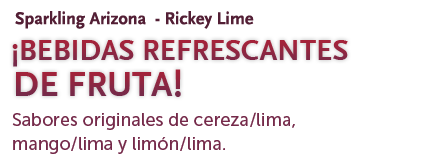
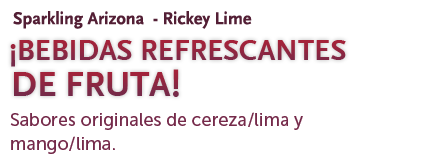
borrar producto: rickey lima/limon

diff --git a/js/slideshow.js b/js/slideshow.js
@@ -123,7 +123,7 @@ function animate_all_elements(id_next) {
 		
 	if (id_next=='sparkling') {
 	    
-	    	var contenedorCinco = $('li.show ul').children('li').append('<span class="sparkling_circles"></span><a href="/main/sparkling_lemonlime/" class="sparkling_lata3"></a><a href="/main/sparkling_mangolime/" class="sparkling_lata2"></a><a href="/main/sparkling_cherrylime" class="sparkling_lata1"></a><span class="sparkling_texto"></span>');
+	    	var contenedorCinco = $('li.show ul').children('li').append('<span class="sparkling_circles"></span><a href="/main/sparkling_mangolime/" class="sparkling_lata2"></a><a href="/main/sparkling_cherrylime" class="sparkling_lata1"></a><span class="sparkling_texto"></span>');
 	    	
 	    	$('.sparkling_texto').delay(800).animate({
 	    	opacity: 1,
@@ -140,10 +140,10 @@ function animate_all_elements(id_next) {
 	    	top: '+=20'
 	  		}, 200);
 	  		
-	  		$('.sparkling_lata3').delay(300).animate({
+	  		/*$('.sparkling_lata3').delay(300).animate({
 	    	opacity: 1, 
 	    	top: '+=20'
-	  		}, 200);
+	  		}, 200);*/
 	  		
 	  		$('.sparkling_circles').delay(800).animate({
 	    	opacity: 1,
@@ -308,7 +308,7 @@ function animate_first_elements() {
 
 	if (id =='sparkling') {
 	    
-	    	var contenedorCinco = $('li.show ul').children('li').append('<span class="sparkling_circles"></span><a href="/main/sparkling_lemonlime/" class="sparkling_lata3"></a><a href="/main/sparkling_mangolime/" class="sparkling_lata2"></a><a href="/main/sparkling_cherrylime" class="sparkling_lata1"></a><span class="sparkling_texto"></span>');
+	    	var contenedorCinco = $('li.show ul').children('li').append('<span class="sparkling_circles"></span><a href="/main/sparkling_mangolime/" class="sparkling_lata2"></a><a href="/main/sparkling_cherrylime" class="sparkling_lata1"></a><span class="sparkling_texto"></span>');
 	    	
 	    	$('.sparkling_texto').delay(800).animate({
 	    	opacity: 1,
@@ -325,10 +325,10 @@ function animate_first_elements() {
 	    	top: '+=20'
 	  		}, 200);
 	  		
-	  		$('.sparkling_lata3').delay(300).animate({
+	  		/*$('.sparkling_lata3').delay(300).animate({
 	    	opacity: 1, 
 	    	top: '+=20'
-	  		}, 200);
+	  		}, 200);*/
 	  		
 	  		$('.sparkling_circles').delay(800).animate({
 	    	opacity: 1,

diff --git a/sites/default/templates/layouts/main.php b/sites/default/templates/layouts/main.php
@@ -90,8 +90,7 @@ pageTracker._trackPageview();
 	<li><a class="sparkling <? if (substr(get_current_action(), 0, 6) == "sparkling" ) {?>_ON<? } ?>"  href="<?=url_for("main", "sparkling_cherrylime")?>">Sparkling</a>
 		<ul class="subnav">
 			<li><a href="<?=url_for("main", "sparkling_cherrylime")?>">Rickey Cherry Lime</a></li> 
-			<li><a href="<?=url_for("main", "sparkling_mangolime")?>">Rickey Mango Lime</a></li>   
-			<li><a href="<?=url_for("main", "sparkling_lemonlime")?>">Rickey Lemon Lime</a></li>  
+			<li><a href="<?=url_for("main", "sparkling_mangolime")?>">Rickey Mango Lime</a></li>    
 		</ul>   
 	</li> 
 	

diff --git a/sites/default/templates/pages/partials/submenu.php b/sites/default/templates/pages/partials/submenu.php
@@ -39,8 +39,7 @@
 
 			<li><a class="<? if (get_current_action() == "sparkling_cherrylime") { echo "ON";} ?> linea" href="<?=url_for("main", "sparkling_cherrylime")?>">Rickey Cherry Lime</a></li> 
 			<li><a class="<? if (get_current_action() == "sparkling_mangolime") { echo "ON";} ?> linea" href="<?=url_for("main", "sparkling_mangolime")?>">Rickey Mango Lime</a></li>   
-			<li><a class="<? if (get_current_action() == "sparkling_lemonlime") { echo "ON";} ?> linea" href="<?=url_for("main", "sparkling_lemonlime")?>">Rickey Lemon Lime</a></li> 
-	
+			
 		</ul>
 	</div>
 	

diff --git a/sites/default/templates/pages/index.php b/sites/default/templates/pages/index.php
@@ -142,7 +142,6 @@
 		        <ul class="list-products sparkling_list">
 			       	<li><a href="<?=url_for("main", "sparkling_cherrylime")?>">Rickey Cherry Lima</a></li>
 			       	<li><a href="<?=url_for("main", "sparkling_mangolime")?>">Rickey Mango Lima</a></li>
-			       	<li><a href="<?=url_for("main", "sparkling_lemonlime")?>">Rickey Lemon Lima</a></li>
 		        </ul>
 		        
 	        </div>

diff --git a/README.md b/README.md
@@ -2,3 +2,6 @@ arizonate-2012
 ==============
 
 Sitio web Arizonate
+
+On localhost the_yield();
+On development yield();
